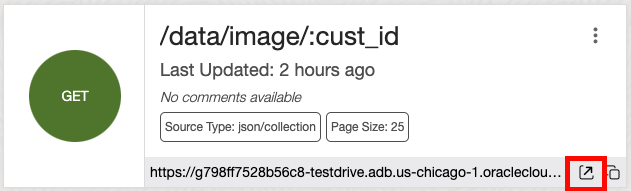
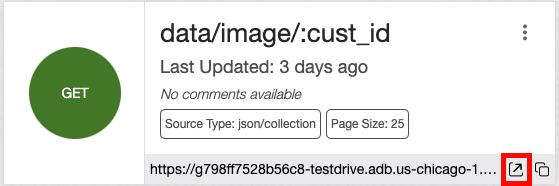
Expose as REST updates.

diff --git a/shared/adb-ai-web-app/expose-rest/expose-rest.md b/shared/adb-ai-web-app/expose-rest/expose-rest.md
@@ -7,11 +7,11 @@ This lab will implement two different types of RESTful services. First, AutoREST
 
 - AutoREST  
 
-![REST API Introduction](./images/intro-restapi.png "")
+  ![REST API Introduction](./images/intro-restapi.png "")
 
 - RESTful services management 
 
-![REST API Introduction](./images/intro-restapi-two.png "")
+  ![REST API Introduction](./images/intro-restapi-two.png "")
 
 Estimated Time: 20 minutes.
 
@@ -19,15 +19,15 @@ Estimated Time: 20 minutes.
 
 In this lab, you will:
 * Expose tables as REST endpoint
-* Test the REST endpoint
-* Access the API using OpenAPI (Swagger) tool
-* Design a RESTful module for your AI project
-* Test the module
+* Test the REST endpoints
+* Access the API using OpenAPI tools
+* Design and test RESTful module for your AI project
+* Export your project to OpenAPI tools
 
 ### Prerequisites
 - This lab requires the completion of all of the preceding labs. 
 
-## Task 1: Create customer info REST endpoint using AutoREST
+## Task 1: Create customer and pizza shop REST endpoints using AutoREST
 Start by providing access to customer data using AutoREST. This is the easiest way to enable RESTful access to data in Autonomous Database:
 
 1. Ensure that you are logged in as **MOVIESTREAM** user. In the Navigator, select **CUSTOMER.** 
@@ -46,11 +46,7 @@ Start by providing access to customer data using AutoREST. This is the easiest w
 
   >**Note:** The API can be secured by selecting **Require Authentication**. We will keep things simple and not require authentication, which is clearly not a best practice. To learn more about securing REST endpoints, go to [Configuring Secure Access to RESTful Services.](https://docs.oracle.com/en/database/oracle/oracle-rest-data-services/18.4/aelig/developing-REST-applications.html#GUID-5B39A5A6-C55D-452D-AE53-F49431A4DE97).
 
-4. Repeat steps 1-3 for the table named **PIZZA_SHOP** and copy the **Preview url** into a notepad for later (lab 5).
-
-  ![Enable AUTOrest for pizza_shop](./images/pizza-shop.png "")
-
-5. Test the REST endpoint from a command prompt. Right-click **CUSTOMER** and select **REST** -> **cURL command...**.
+4. You can test the REST endpoint from a command prompt (we'll test it using other tools later). Right-click **CUSTOMER** and select **REST** -> **cURL command...**.
   ![test the api](images/click-rest-quick-test.png)
 
   Then, select **GET Single** and enter cust_id **1320371**
@@ -59,19 +55,24 @@ Start by providing access to customer data using AutoREST. This is the easiest w
 
   Copy the URL to the clipboard.
 
-6. Open a command prompt on your computer. Paste the curl command and hit enter. Assuming no firewalls are blocking your access to the service, you will see information about our customer Betsy Chan:
+5. Open a command prompt on your computer. Paste the curl command and hit enter. Assuming no firewalls are blocking your access to the service, you will see information about our customer Betsy Chan:
   ![curl result](images/click-rest-quick-test-result.png)
 
-7. Save the URL (without the cust_id endpoint) in a notepad for Lab 5.
+6. Repeat steps 1-3 for the table named **PIZZA_SHOP**
+
+  ![Enable AUTOrest for pizza_shop](./images/pizza-shop.png "")
+
 
 ## Task 2: Create customer-movie REST endpoint using a module
-AutoREST is fast and easy. Your APIs are immediately available to use. But, you may want more control over how your APIs are organized and structured. You can design your APIs using Autonomous Database's RESTful design tool. Start by creating an API module (see [Getting Started with RESTful Services](https://docs.oracle.com/en/database/oracle/oracle-rest-data-services/23.4/orddg/developing-REST-applications.html#GUID-25DBE336-30F6-4265-A422-A27413A1C187)).
+AutoREST is fast and easy. Your APIs are immediately available to use. But, you may want more control over how your APIs are organized and structured. You can design your APIs using Autonomous Database's REST design tool. Start by creating an API module (see [Getting Started with RESTful Services](https://docs.oracle.com/en/database/oracle/oracle-rest-data-services/23.4/orddg/developing-REST-applications.html#GUID-25DBE336-30F6-4265-A422-A27413A1C187)).
 
-A module named **api** was created by the Terraform script. Let's create a new module that the **MovieStreamAI** app will use. 
+1. Go to the Autonomous Database REST tool by clicking the hamburger menu and selecting **REST**:
+  ![Go to REST](images/goto-rest.png)
 
-1. Using the breadcrumb menu, select **Modules**.
+2. Go to the list of modules. In the REST tool, select the **Modules** tab
+  ![Go to modules](images/goto-modules.png)
 
-  ![Modules breadcrumb button](./images/modules-breadcrumb.png "")
+  A module named **api** was created by the Terraform script. Let's create a new module that the **MovieStreamAI** app will use. 
 
 2. Click **Create Module.** 
   ![Modules create button](./images/create-module.png "")
@@ -84,13 +85,14 @@ A module named **api** was created by the Terraform script. Let's create a new m
   
     ![Completed module form](images/module-completed-form.png)
  
-4. Click on the newly created module **apiapp**. From here, we will create multiple templates that will provide RESTful services. The endpoints will be designated by either data collection (named **/data/**) or AI generated responses (named **/ai/**). First, let's create the data collection api for the **recently watched movies**.
+4. Click on the newly created module **apiapp**. From here, we will create multiple templates that will provide RESTful services. The endpoints will be designated by either data collection (named **data/**) or AI generated responses (named **ai/**). First, let's create the data collection api for the **recently watched movies**.
 
 5. Click **Create Template.** 
 
   ![Template button](./images/create-template-one.png "")
 
-6. Enter the following name for the template: **data/image/:cust_id** and then click **Create**. 
+6. Enter the following name for the template: `data/image/:cust_id` and then click **Create**. 
+  >**Note:** Use the exact name `data/image/:cust_id`. Our React app is expecting that name.
 
   ![Template button](./images/create-template-two.png "")
 
@@ -143,19 +145,17 @@ Click **Create.**
 
 ## Task 3: Test the new customer-movie API
 
-1. Test the handler. Click **Open in new tab** icon**.
+1. Test the handler. Click **Open in new tab** icon.
 
   ![Open in new tab](./images/open-new-tab-two.png "")
  
-  Then, enter **1000001** for the **cust_id**:
+  Then, enter `1000001` for the **cust_id**:
 
   ![Cust_id input](./images/cust_id.png "")
 
   ![Test module in new window](./images/test-in-new-window.png "")
 
 2. Notice the API displays a JSON response containing an URL for images of the 3 most recently watched movies for only 1 customer, along with some additional details about the movie. Close the new tab when completed.
-
-3. Copy the **URL** (without the 1000001) in a note for use in Lab 5.
 
 ## Task 4: Create REST API for movie recommendations with a pizza offer
 This last task will create our final RESTful service. This uses GenAI to recommend movies and a local pizza offer.
@@ -166,7 +166,8 @@ This last task will create our final RESTful service. This uses GenAI to recomme
 
     ![Create template](./images/create-template-one.png "")
 
-3. Enter the following name for the URI template: **ai/moviePizzaRecommendation/:cust_id**. Then, click **Create.** 
+3. Enter the following name for the URI template: `ai/moviePizzaRecommendation/:cust_id`. Then, click **Create.** 
+    >**Note:** Use the exact name `ai/moviePizzaRecommendation/:cust_id`. Our React app is expecting that name.
 
     ![uri and create button](./images/uri-create.png "")
 
@@ -224,7 +225,9 @@ The completed **ai/moviePizzaRecommendation/:cust_id** module is shown below:
   * **cust_id**: `1000001`
   * **Profile_name** parameter: `OCIAI_COHERE`
 
-11. Copy the **URL** (without the endpoint 1000001) and save as a note for Lab 5.
+
+## Summary
+Your APIs are now available! You can test the APIs using the built-in OpenAPI tool or publish the APIs to your favorite OpenAPI tools.
 
 You may now proceed to the next lab.
 
